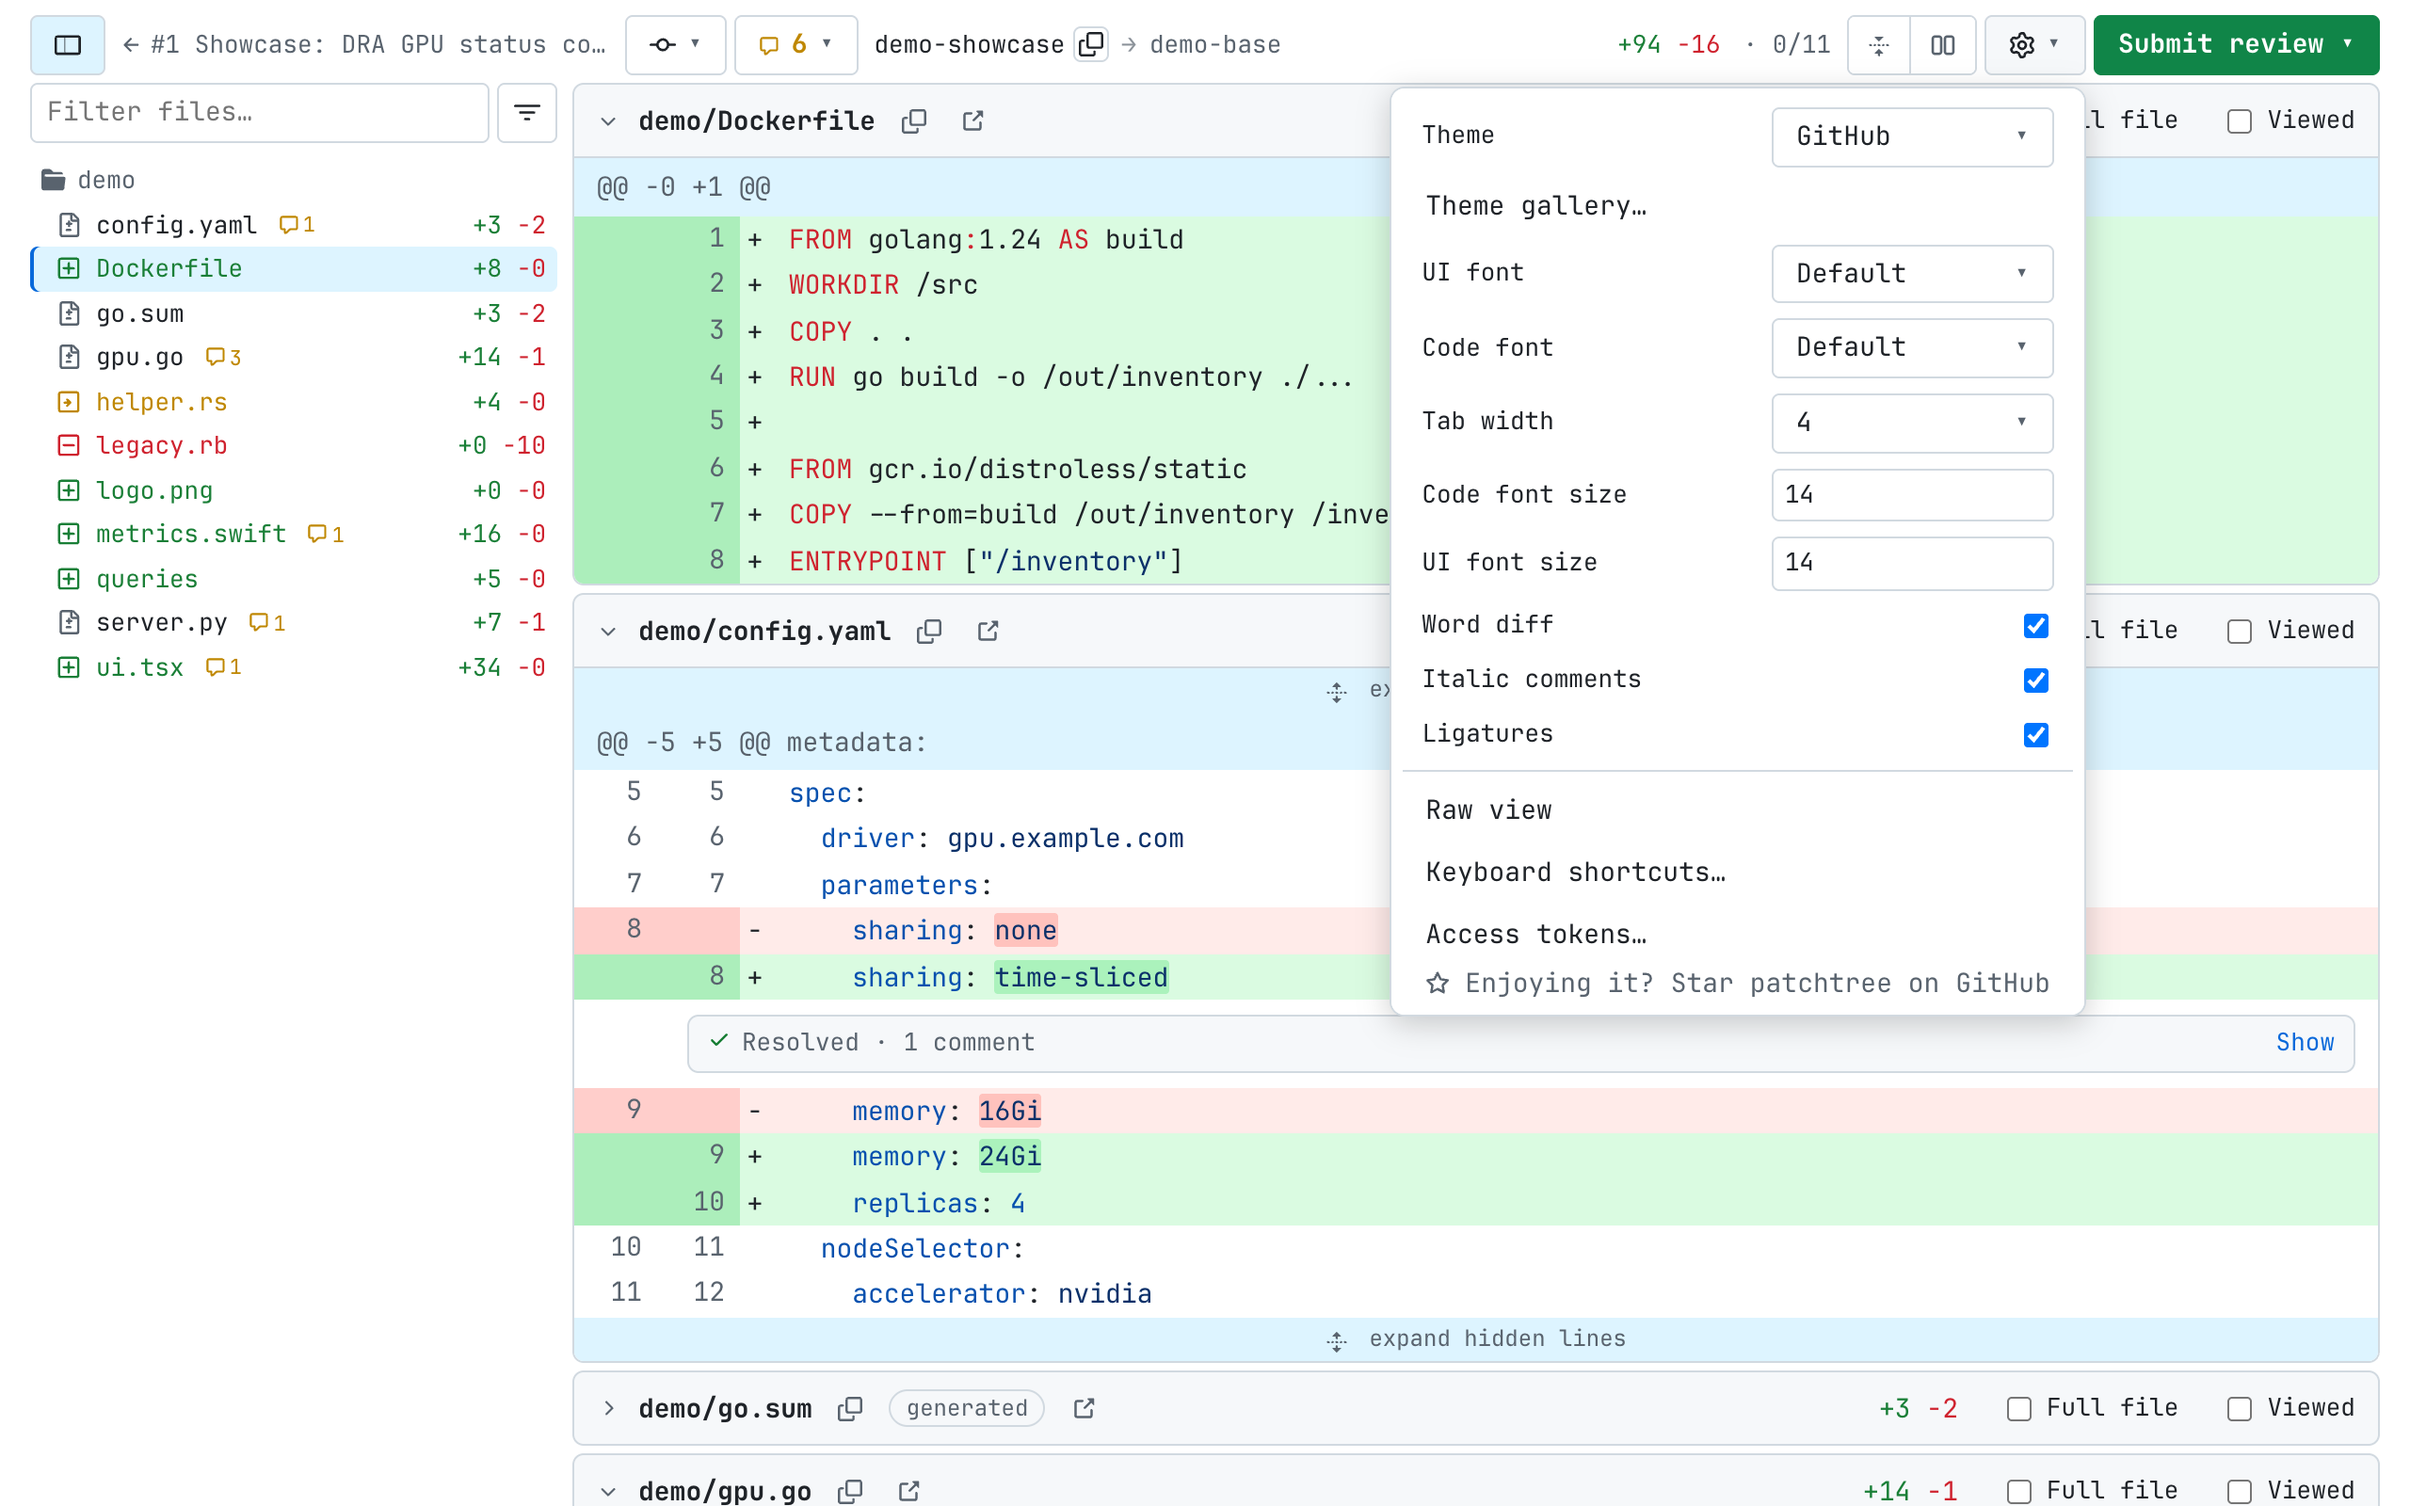
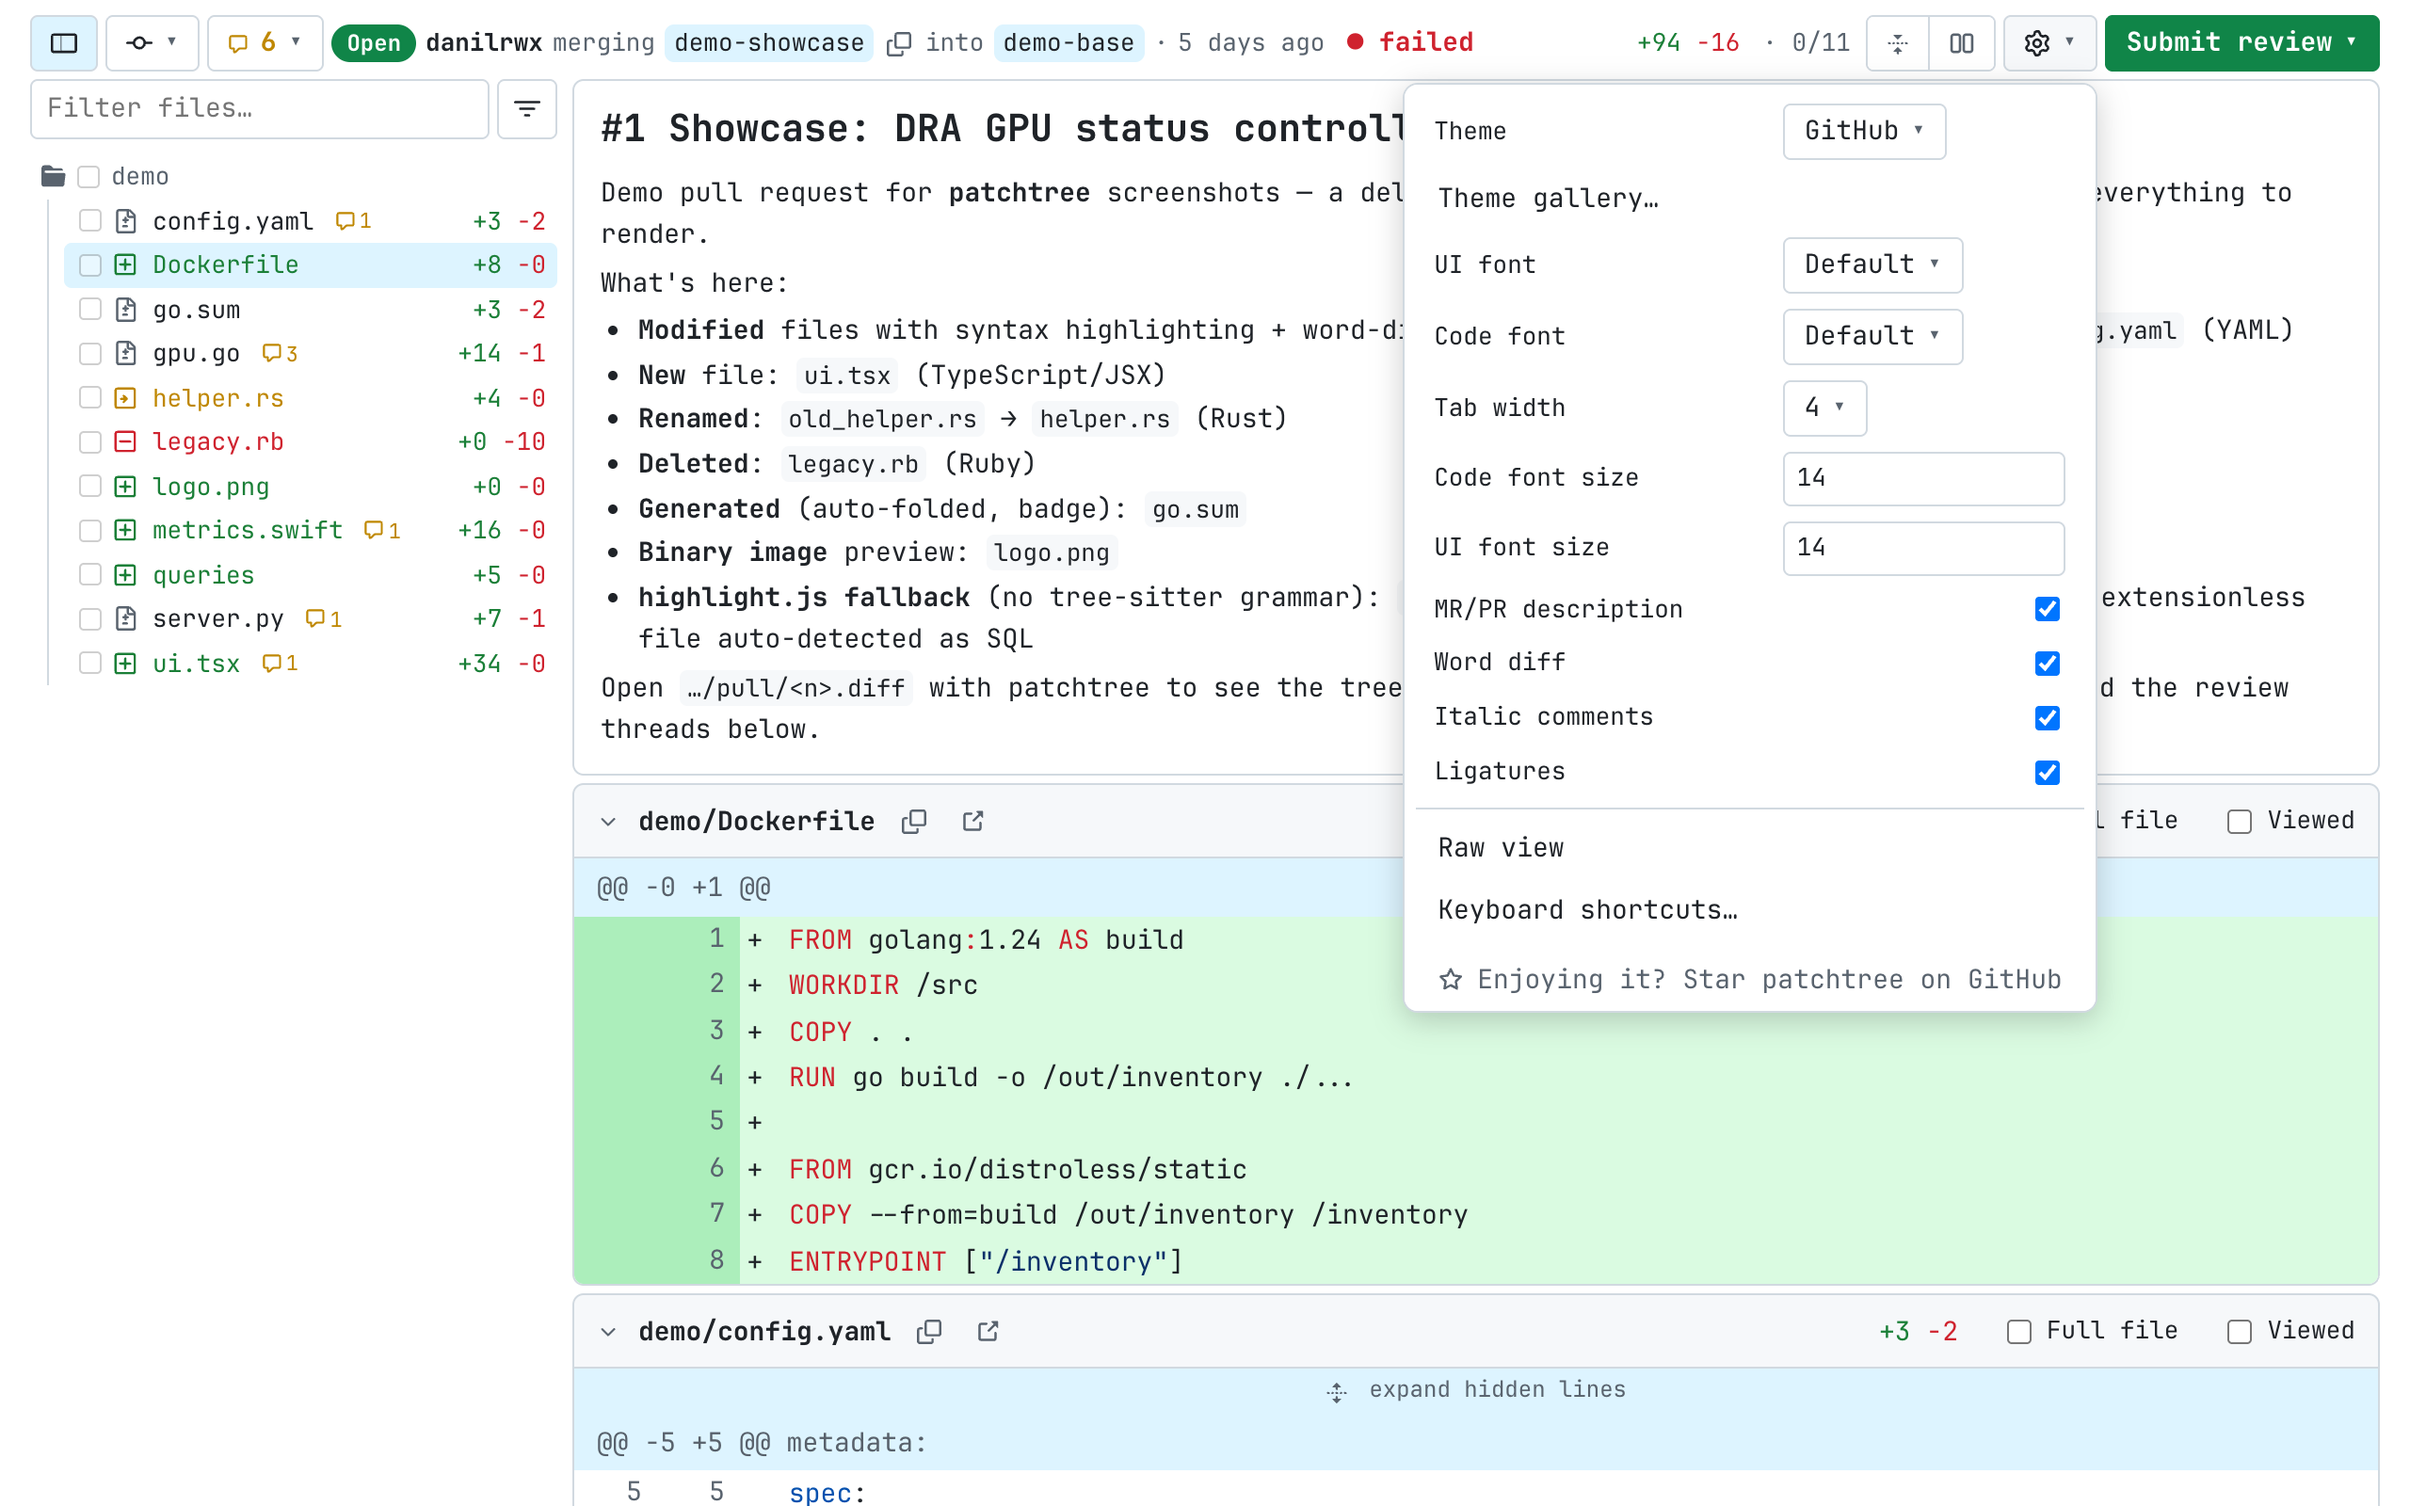
docs: refresh the gallery with the pipeline, review and viewed-tree frames
Three frames for what this release adds — the pipeline chip with its jobs, the
review panel warning about a red pipeline, and the tree tracking reading
progress — plus a regenerated set for the rest. The shooting locale is pinned to
en-US, otherwise the relative date in the bar comes out in the machine's
language and the gallery reads half-translated.

diff --git a/README.md b/README.md
@@ -68,7 +68,9 @@ background worker.
   content), folder icons, per-file `+N −M`, comment-count badge.
 - **Viewed** checkboxes with a progress counter, fold/unfold,
   auto-collapsed `generated` files (lock files, `*.pb.go`, `vendor/`,
-  minified assets).
+  minified assets). The tree carries them too — per file, or per folder to
+  cover everything under it; a folder folds itself once it is fully read, and
+  comes back folded after a reload.
 - **Keyboard**: `j`/`k` files, `n`/`p` threads (centered), `v` viewed,
   `x` fold, `s` inline/side-by-side, `e` file tree, `/` focus filter,
   `?` shortcuts overlay — bound to physical keys, so they work on any
@@ -81,8 +83,11 @@ background worker.
   works both ways — from a merge/pull request it opens the diff, from a diff it
   returns to the request (re-activating the tab you came from rather than
   opening another one).
-- **Commit filter** — icon until you pick a commit, then a chip with its
-  sha and a reset ×; shows the diff of that commit alone.
+- **Commit picker** — icon until you pick a commit, then a chip with its sha and
+  a reset ×; shows the diff of that commit alone. Rows carry the subject, author
+  and date, copy the full sha, or open the commit on the host, and a filter
+  field appears on long branches (sha, message or author; Enter takes the first
+  match).
 - Compact toolbar: `+N −M · viewed/total` with a one-click reset, an
   unresolved-threads badge, and single buttons that fold every file or
   flip inline ⇄ side-by-side (each labelled by what it will do).
@@ -244,9 +249,10 @@ The unresolved badge jumps to each open thread:
 
 ![unresolved threads](docs/screenshots/08-unresolved.png)
 
-Commit filter — review the diff of a single commit:
+Commit picker — review a single commit's diff; each row carries its author and
+date, copies the full sha, or opens the commit on the host:
 
-![commit filter](docs/screenshots/09-commits.png)
+![commit picker](docs/screenshots/09-commits.png)
 
 Tree filter — by extension, or hide viewed and deleted files:
 
@@ -255,6 +261,19 @@ Tree filter — by extension, or hide viewed and deleted files:
 Access tokens, stored locally and never synced:
 
 ![access tokens](docs/screenshots/11-tokens.png)
+
+Pipeline status in the bar, with the jobs behind it:
+
+![pipeline jobs](docs/screenshots/12-ci-jobs.png)
+
+Submitting a review — approving a failing pipeline is called out, not blocked:
+
+![submit review](docs/screenshots/13-submit-review.png)
+
+Reading progress in the tree: mark a file or a whole folder viewed, and a
+finished folder folds itself away:
+
+![viewed files in the tree](docs/screenshots/14-tree-viewed.png)
 
 ## License
 
